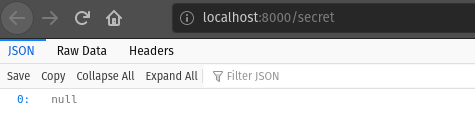
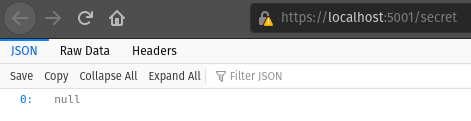
completed walkthrough

diff --git a/src/chapters/secrets-and-backing/walkthrough.rst b/src/chapters/secrets-and-backing/walkthrough.rst
@@ -37,7 +37,15 @@ There are three files we are interested in. Let's take a look at them.
 
 Before we make any changes to our code let's go ahead and run our project locally to see how it works.
 
-Change into the directory you just cloned ``/dotnet-user-secrets-az-keyvault``. Go ahead and run your application with ``dotnet run`` and then navigate to ``http://localhost:8000/secret``.
+Change into the directory you just cloned ``/dotnet-user-secrets-az-keyvault``. Then run
+
+.. sourcecode:: bash
+
+   dotnet run
+
+.. image:: /_static/images/secrets-and-backing/dotnet-run-local.png
+
+Then navigate to `<https://localhost:5001/secret>`_.
 
 You should see a line that says ``null``. This is what we expect for now because we haven't yet configured one of our secret managers, we will do that in the next step.
 
@@ -72,8 +80,12 @@ This creates a new user secret for your project with the key value pair of "name
 
 Our app is now accessing our user secret and it is being displayed in our running webapp!
 
-However, we are going to change ``yourname`` to your actual name. We can achieve this by overwriting the old user secret. ``dotnet user-secrets set name **yourname**``.
+However, we are going to change ``yourname`` to your actual name. We can achieve this by overwriting the old user secret. 
 
+.. sourcecode:: bash
+
+   dotnet user-secrets set name <yourname>
+   
 .. image:: /_static/images/secrets-and-backing/paul-user-secret.png
 
 Using dotnet user-secrets is a way to keep sensitive data safe from your application, and keep yourself from accidently committing your secrets to Version Control (like git).
@@ -108,9 +120,21 @@ You are probably starting to get the hang of provisioning VMs. Refer to the foll
 
 .. image:: /_static/images/secrets-and-backing/provision-vm2.png
 
+Make sure to select the correct image, change the Authentication Type to Password, and create a username ``student`` and password ``LaunchCode-@zure1``.
+
 .. image:: /_static/images/secrets-and-backing/provision-vm3.png
 
+As one additional step to previous VM provisioning we will need to change the ``System assigned managed identity`` to ``On``. You will find this option in the ``Management`` section of the VM creation wizard.
+
+.. image:: /_static/images/secrets-and-backing/provision-vm-system-identity.png
+
+Allowing ``System assigned managed identity`` allows the VM to search for other Azure resources like the Key vault we will be setting up soon!
+
 .. image:: /_static/images/secrets-and-backing/provision-vm4.png
+
+.. warning::
+
+   If you didn't change the Authentication Type to Password, and create a User name ``student`` you will run into issues later when trying to perform RunCommands. If you didn't change ``System assigned managed identity`` from ``Off`` to ``On`` you will have issues when your VM attempts to access the Key vault.
 
 After provisioning your VM move on to the next step.
 
@@ -224,6 +248,10 @@ After spinning up your VM inside a new Resource Group we will need to install th
 
 Remeber to run these bash commands you will need to go to your VM, and under Operations select RunCommand, and then select RunShellScript to access the RunCommand console.
 
+.. note::
+
+   Remember that using the RunCommand will take some time so after you hit ``Run`` give it a few minutes. This first RunCommand will take the longest as it's downloading and installing the dotnet CLI.
+
 .. sourcecode:: bash
 
    wget https://packages.microsoft.com/config/ubuntu/18.04/packages-microsoft-prod.deb -O packages-microsoft-prod.deb
@@ -253,7 +281,7 @@ After you have successfully installed dotnet move on to the next step.
 Get Source Code
 ===============
 
-The project we want to deploy is the same repository you created on GitHub just a couple of steps ago. You need to deploy the project on your repository since it contains the source code that references your unique Key vault. Once you have the URL for that repository you will need to replace the URL in the following source code block with the URL to your repository.
+The project we want to deploy is the same repository that we forked earlier. You need to deploy the project on your repository since it contains the source code that references your unique Key vault. Once you have the URL for that repository you will need to replace the URL in the following source code block with the URL to your repository.
 
 Clone it to your Virtual Machine with the following bash commands in the RunCommand section of the Azure Portal making sure to replace ``<YOURUSERNAME>`` with your actual GitHub repo URL:
 
@@ -278,6 +306,21 @@ You should see a new folder named ``dotnet-user-secrets-az-keyvault`` which will
 .. image:: /_static/images/secrets-and-backing/vm-clone.png
 
 Once you see ``dotnet-user-secrets-az-keyvault`` in the STDOUT section of your run command move on.
+
+VM Security Groups
+==================
+
+Before we deploy our application let's open our NSGs.
+
+From the VM select ``Networking`` under the Settings section.
+
+.. image:: /_static/images/secrets-and-backing/vm-nsg1.png
+
+Add new inbound and outbound rules for port 80.
+
+.. image:: /_static/images/secrets-and-backing/vm-nsg2.png
+
+.. image:: /_static/images/secrets-and-backing/vm-nsg3.png
 
 Publish
 =======
@@ -311,7 +354,10 @@ Deploy
    cd /home/student/dotnet-user-secrets-az-keyvault
    ASPNETCORE_URLS="http://*:80" ./bin/Release/netcoreapp3.1/linux-x64/publish/api-user-secrets
 
+This publish step will look like it's stuck if it's successful becuase the process attached itself to the running application. Just like the picture below.
+
 .. image:: /_static/images/secrets-and-backing/dotnet-deploy.png
 
-VM Security Groups
-==================
+However, if it looks hung, and you've opened your NSG for this VM you can access the running app by going to ``http://<YOURVMIP>/secret``.
+
+.. image:: /_static/images/secrets-and-backing/final-app.png
